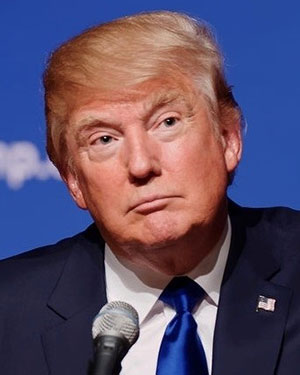
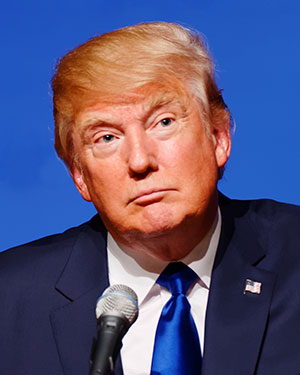
updated trump poto, added outro text

diff --git a/voter-guide/index.html b/voter-guide/index.html
@@ -3,6 +3,7 @@ layout: default
 title: The Internet, Presidential Candidates and You
 intro_text: "<p>Tens of millions of people want the next president to make protecting the Internet a top policy priority. This guide shows where each major-party candidate stands on issues related to free speech, access, choice, privacy and openness online. To learn more about Internet 2016’s policy recommendations, check out our <a href='https://internet2016.net/policyplatform/' target='_blank' >Internet Policy Platform</a>.</p> <p>It’s up to Internet voters to pressure candidates to support an open, secure and affordable Internet — and to hold candidates accountable when they trample on our rights to connect and communicate.</p>"
 templateheader: subhead_image_Purple.png
+outro_text: "<p>Clinton, Cruz, Kasich, Rubio, Sanders and Trump were included in this document on March 11, 2016 based on their status as the remaining candidates for the two major political parties. Positions will be updated as the candidates make new statements on these issues.</p>"
 
 ---
  
@@ -107,6 +108,12 @@ templateheader: subhead_image_Purple.png
             {% endif %}
           {% endfor %}
         {% endfor %}
+
+        {% if page.outro_text %}
+          <div class="text-center vg-outro">
+            {{page.outro_text|raw}}
+          </div>
+        {% endif %}
 
         <div class="vg-share vg-shareBottom">
           <div class="vg-shareTitle">Share this Internet Voter Guide:</div>

diff --git a/assets/css/internet2016.css b/assets/css/internet2016.css
@@ -863,6 +863,14 @@ main {
   opacity: 0;
 }
 
+.vg-outro {
+  max-width: 900px;
+  margin: 30px auto 0;
+  font-style: italic;
+  font-size: 14px;
+  line-height: 18px;
+}
+
 @media (max-width: 1200px ) {
   .vg-image,
   .vg-key {
